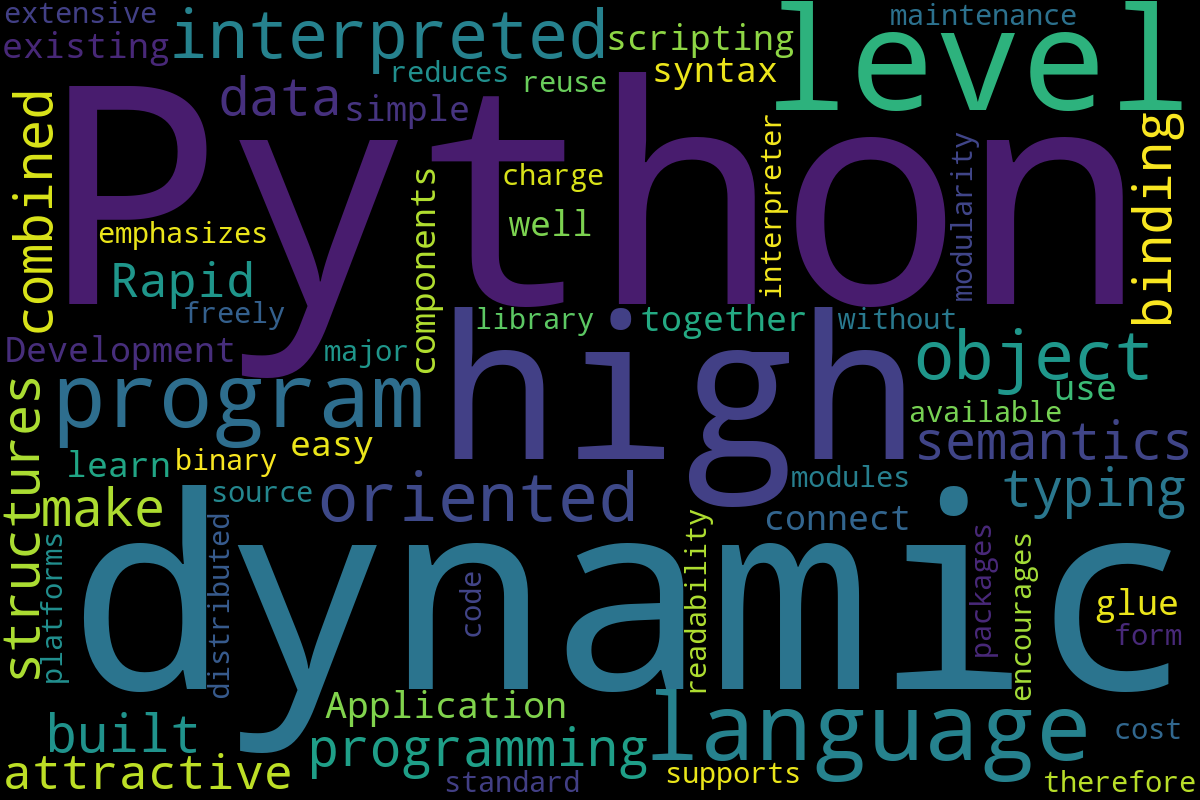
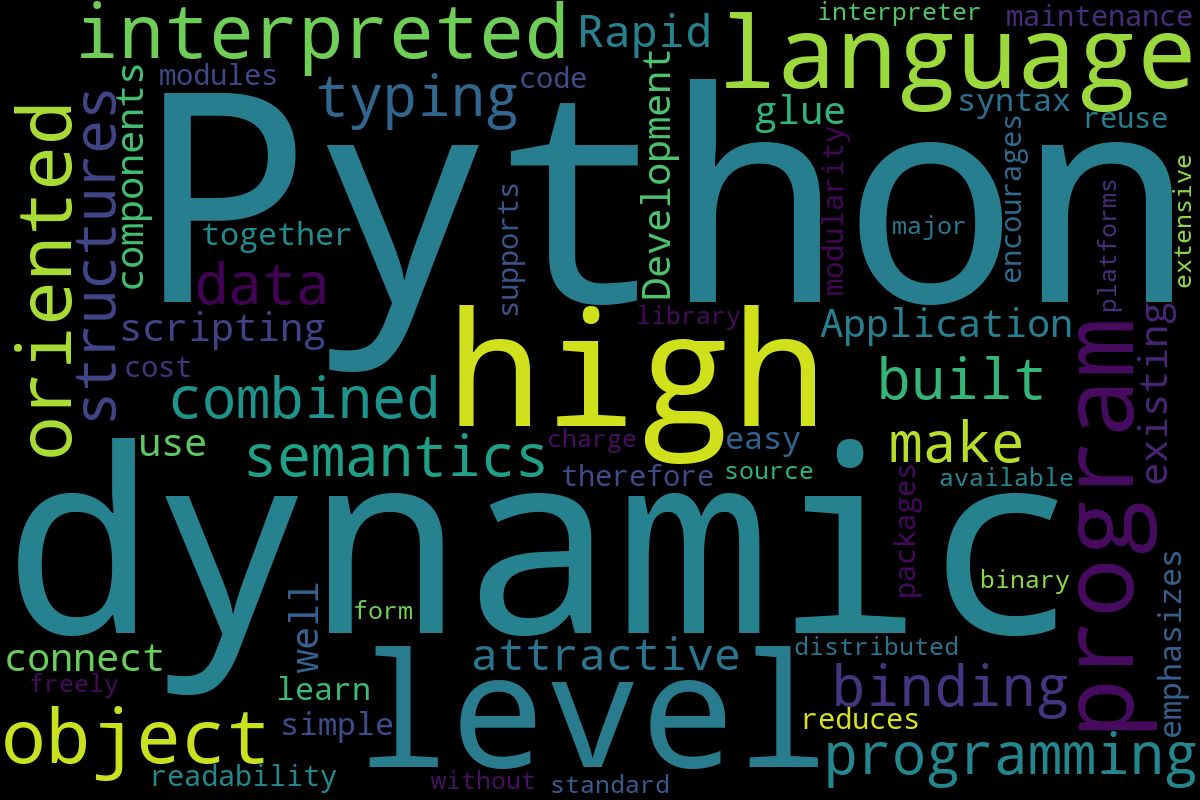
[서진원] 190814 실습코드

diff --git a/section14/03-news_crawler.py b/section14/03-news_crawler.py
@@ -1,0 +1,92 @@
+# -*- coding: utf-8 -*-
+
+from crawler import Crawler
+from bs4 import BeautifulSoup
+from wordcloud import WordCloud
+from matplotlib import pyplot
+from collections import Counter
+from konlpy.tag import Okt
+import datetime as dt
+import os
+
+crawler = Crawler()
+
+URL = "https://news.naver.com/"
+
+url_list =[]
+
+datetime = dt.datetime.now().strftime("%y%m%d_%H%M%S")
+dirname = "%s_%s" %('뉴스기사', datetime)
+
+if not os.path.exists(dirname):
+    os.mkdir(dirname)
+
+link_list = crawler.select(URL, encoding ="euc-kr", selector = ".newsnow_tx_inner > a, .newsnow_imgarea > a, .mtype_img > dt > a, .mlist2 > li > a")
+
+for item in link_list:
+    print(item)
+    print("-" * 30)
+
+for item in link_list:
+    print(type(item.attrs))
+    if "href" in item.attrs:
+        if "read.nhn" in item['href']:
+            url_list.append(item['href'])
+for v in url_list:
+    print(v)
+news_content = ''
+
+for i, url in enumerate(url_list):
+    print("%d 번째 뉴스기사 수집중... >> %s" %(i+1, url))
+
+    news_html = crawler.select(url, selector = '#main_content', encoding='euc-kr')
+
+    if not news_html:
+        print("%d 번째 뉴스기사 크롤링 실패" % (i+1))
+        continue
+    news_html_item = news_html[0]
+
+    title_str = ""
+    content_str = ""
+
+    title = news_html_item.select("#articleTitle")
+
+    if title:
+        title_str = title[0].text.strip()
+
+        title_str = title_str.replace("'","").replace("\"","").replace("?","").replace(""","").replace(""","").replace("/","").replace(">","").replace("<","")
+        print(title_str)
+
+    content = news_html_item.select("#articleBodyContents")
+
+    if content:
+        news_text = content[0]
+
+        crawler.remove(news_text,'script')
+        crawler.remove(news_text, 'a')
+        crawler.remove(news_text,'br')
+        crawler.remove(news_text,'span',{'class': 'end_photo_org'})
+
+        content_str = news_text.text.strip()
+        news_content += content_str
+
+    if title_str and content_str:
+        fname = dirname + "/" +title_str + ".txt"
+        with open(fname, 'w',encoding='utf-8')as f:
+            f.write(content_str)
+
+nlp = Okt()
+nouns = nlp.nouns(news_content)
+count = Counter(nouns)
+most - count.most_common(100)
+
+tags = {}
+for n, c in most:
+    if len(n) > 1:
+        tags[n] =c
+
+wc = WordCloud(font_path = "NanumGothic", max_font_size=200, width=1200, height=800, background_color= #ffffff)
+
+wc.generate_from_frequencies(tags)
+
+wc.to_file("news_%s.png" % datetime)

diff --git a/section14/04-product.py b/section14/04-product.py
@@ -1,0 +1,48 @@
+from crawler import Crawler
+from print_df import print_df
+from pandas import DataFrame
+import pandas as pd
+import urllib
+
+df = DataFrame()
+keyword ='노트북'
+params = {"query": keyword, "frm": "NVSHATC"}
+query = urllib.parse.urlencode(params)
+
+site_url = "https://search.shopping.naver.com/search/all.nhn?" + query
+print_df(site_url)
+
+crawler = Crawler()
+html = crawler.select(site_url, selector=".info")
+
+for item in html:
+    info ={}
+
+    title_list = item.select('.tit')
+    title = title_list[0].text.strip()
+    info['제품명'] = title
+
+    price_list = item.select('.num')
+    price = price_list[0].text.strip()
+    price = price.replace(",","")
+    price = int(price)
+    info['가격'] = price
+
+    spec_list = item.select('.detail a')
+
+    for v in spec_list:
+        v = v.text.strip()
+        tmp = v.split(":")
+
+        if len(tmp) ==2:
+            key = tmp[0].strip()
+            value = tmp[1].strip()
+            info[key] = value
+
+item_df = DataFrame([info], columns=info.keys())
+
+df = pd.concat([df,item_df], sort=False)
+
+print_df(df.head())
+
+df.to_csv("노트북.csv", index=False)

diff --git a/section14/print_df.py b/section14/print_df.py
@@ -1,0 +1,35 @@
+# -*- coding: utf-8 -*-
+
+from prettytable import PrettyTable
+import pandas
+
+#------------------------------------------
+# 데이터 프레임 출력 함수
+#------------------------------------------
+def print_df(df):
+    # 변수의 타입을 확인한다.
+    print(type(df))
+
+    # 타입이 DataFrame인 경우 사용
+    if isinstance(df, pandas.core.frame.DataFrame):
+        print(df.shape)
+        # 파라미터로 전달된 데이터 프레임의 컬럼 이름들에 대한 리스트를
+        # 사용하여 PrettyTable 객체 생성
+        table = PrettyTable([''] + list(df.columns))
+
+        # 데이터프레임의 각 행마다 반복
+        for row in df.itertuples():
+            # 데이터 프레임의 각 행을 PrettyTable 객체에 추가
+            table.add_row(row)
+
+        # 결과를 문자열로 변환하여 출력
+        print(str(table))
+
+    # 데이터 프레임이 아닌 경우는 기본 출력 사용
+    else:
+        print(df)
+
+    # 빈 줄 출력
+    print("\n")
+
+
